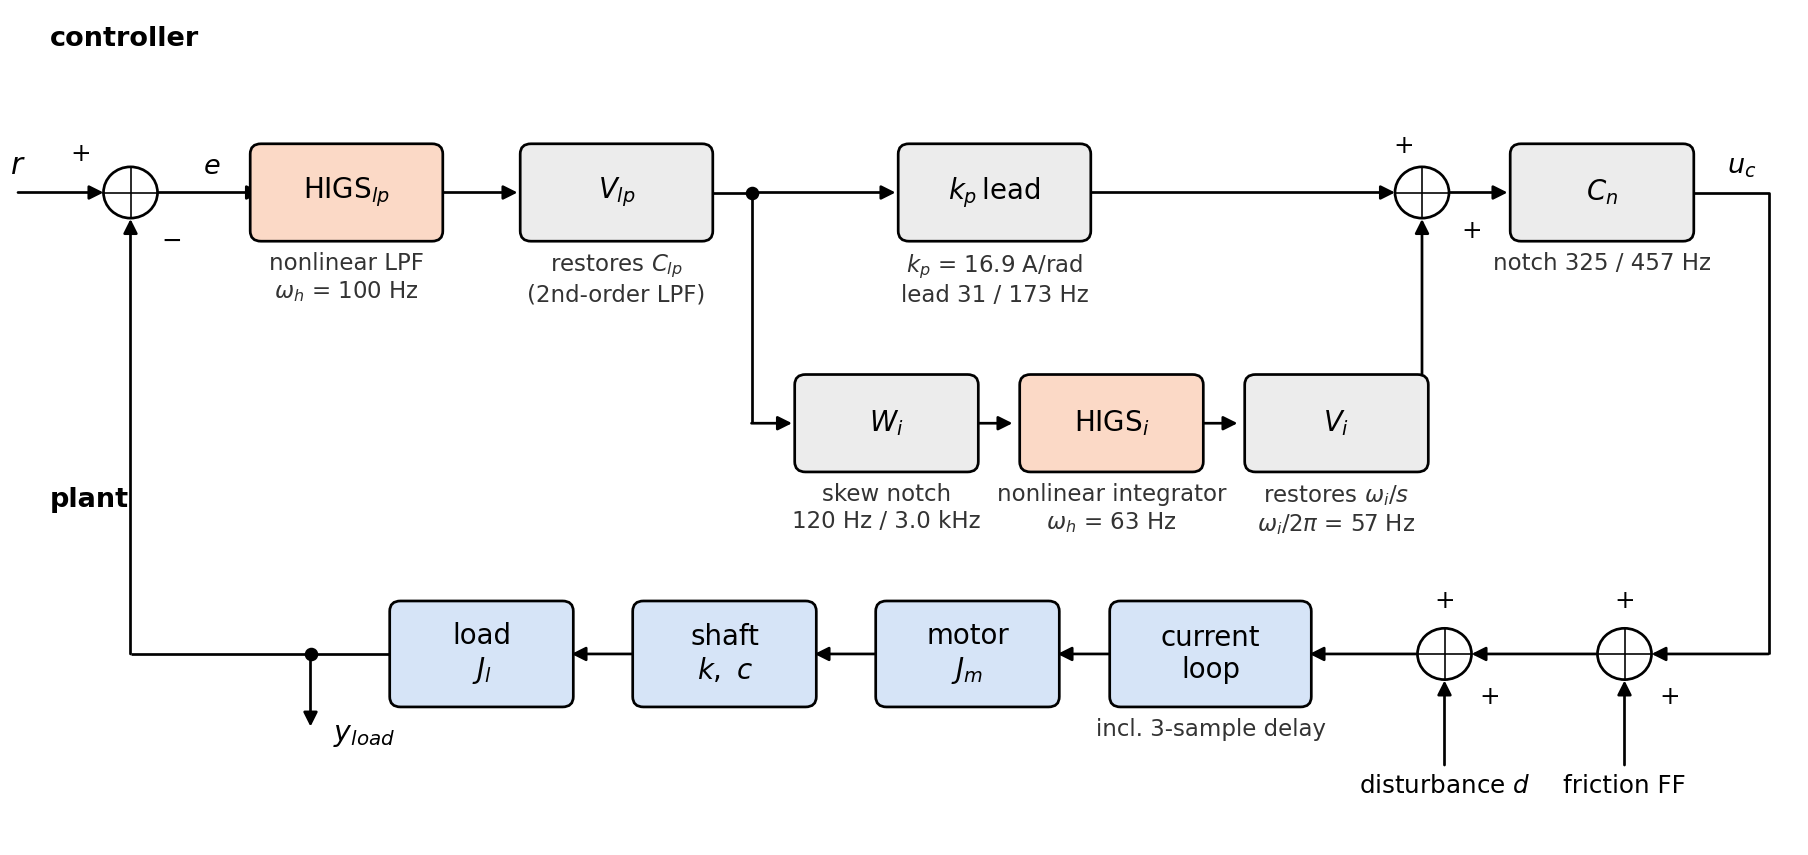
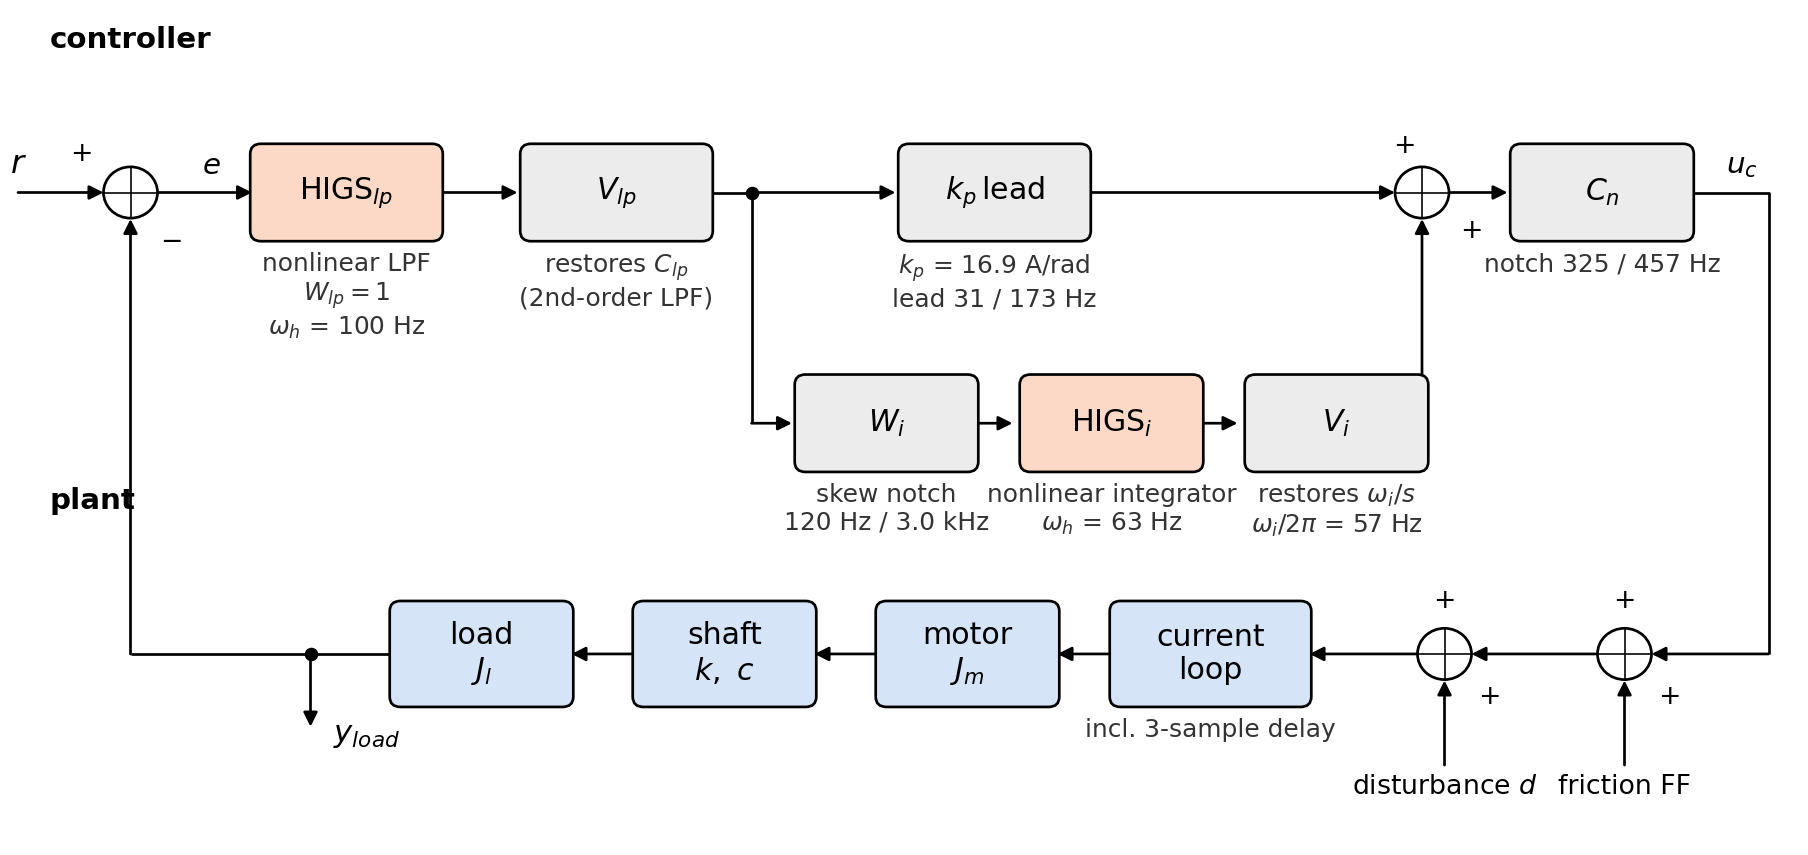
[higs] Diagram note for W_lp, arrow fix, splice label size

diff --git a/simulations/higs_hw_figures.py b/simulations/higs_hw_figures.py
@@ -192,7 +192,7 @@ def fig1_frf(ctx, w=None):
         ax.axvspan(1, ctx.splice, color="#e8a33a", alpha=0.16, lw=0)
         ax.axvline(ctx.splice, color="k", ls="-.", lw=1.0)
     axs[0].text(1.25, 0.04, "friction region", transform=axs[0].get_xaxis_transform(), va="bottom", color="#8a5a00")
-    axs[0].text(ctx.splice * 0.93, 0.04, f"splice {ctx.splice:.0f} Hz", transform=axs[0].get_xaxis_transform(), va="bottom", ha="right", rotation=90)
+    axs[0].text(ctx.splice * 0.93, 0.04, f"splice {ctx.splice:.0f} Hz", transform=axs[0].get_xaxis_transform(), va="bottom", ha="right", rotation=90, fontsize=0.8 * plt.rcParams["font.size"])
     axs[0].set_ylabel("|Hl| [dB re rad/A]")
     axs[1].set_ylabel("phase [deg]")
     axs[1].set_xlabel("frequency [Hz]")
@@ -323,7 +323,7 @@ def fig3_filters(ctx, w=None, only=("wi", "vi", "vlp", "notch")):
 # ------------------------------------------------------------------ fig 4: block diagram
 def fig4_diagram(ctx, figw=12.0):
     t = ctx.des["both"]["tuning"]
-    fs = 7.0 * figw / 7.1                     # 7 pt at the report width of 7.1 in
+    fs = 7.6 * figw / 7.1                     # 7.6 pt at the report width of 7.1 in
     fig = plt.figure(figsize=(figw, figw * 0.47))
     ax = fig.add_axes([0, 0, 1, 1])
     ax.set_xlim(0, 20)
@@ -359,14 +359,14 @@ def fig4_diagram(ctx, figw=12.0):
     ax.text(0.15, ytop + 0.15, "$r$", ha="center", va="bottom", fontsize=fs * 1.2)
     arrow((0.15, ytop), (1.1, ytop))
     node(1.4, ytop, [(-0.55, 0.45, "+"), (0.45, -0.55, "$-$")])
-    arrow((1.7, ytop), (2.85, ytop))
+    arrow((1.7, ytop), (2.75, ytop))
     ax.text(2.3, ytop + 0.15, "$e$", ha="center", va="bottom", fontsize=fs * 1.1)
     l, r = box(3.8, ytop, r"HIGS$_{lp}$", "higs")
     arrow((r, ytop), (5.7, ytop))
     l, r = box(6.8, ytop, r"$V_{lp}$", "lin")
     line((r, ytop), (8.3, ytop))
     ax.plot(8.3, ytop, "ko", ms=4 * figw / 12 + 1.5, zorder=4)
-    note(3.8, ytop - 0.7, f"nonlinear LPF\n$\\omega_h$ = {t['higs_lp_corner_hz'] / SQ:.0f} Hz")
+    note(3.8, ytop - 0.7, f"nonlinear LPF\n$W_{{lp}}=1$\n$\\omega_h$ = {t['higs_lp_corner_hz'] / SQ:.0f} Hz")
     note(6.8, ytop - 0.7, "restores $C_{lp}$\n(2nd-order LPF)")
     # P branch
     arrow((8.3, ytop), (9.9, ytop))
